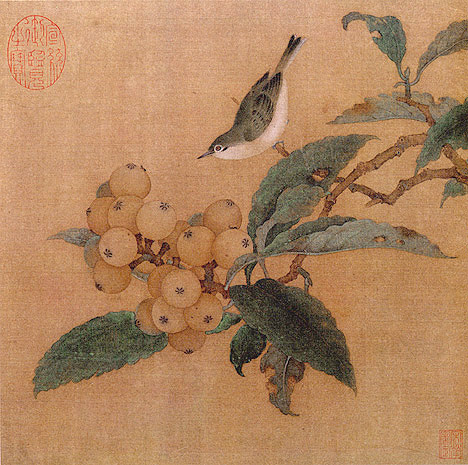
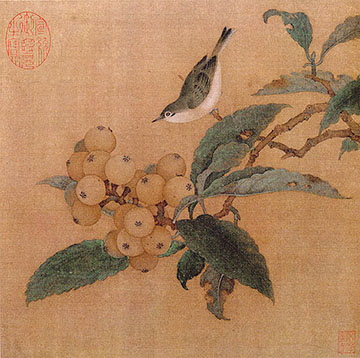
Resized 3 images to use on homepage image slider.
Added images directly in HTML, in image 'model' class as src.

diff --git a/index.html b/index.html
@@ -205,7 +205,7 @@ Avery & Associates Physical Therapy has been open for practice since 1989. We of
 
 
 
-<img class="model" src="images/model1.png" alt="Model 1" />
+<img class="model" src="images/painting1.jpg" alt="Model 1" />
 					</li>
 					<li>
 						<h2 class="title">"Whole Body" Health</h2>
@@ -216,7 +216,7 @@ We believe in the importance of whole body health, using holistic treatments rat
 <section class="button1 buttonslider">
 <a href="about.html">Read more</a>
 </section>
-<img class="model" src="images/model2.png" alt="Model 2" />
+<img class="model" src="images/painting2copy.jpg" alt="Model 2" />
 					</li>
 					<li>
 						<h2 class="title">Services</h2>
@@ -228,7 +228,7 @@ We draw on a diverse array of tools and techniques to help you recover health an
 <a href="services.html">Read more</a>
 </section>
 
-<img class="model" src="images/model3.png" alt="Model 3" />
+<img class="model" src="images/bamboo1medcopy.jpg" alt="Model 3" />
 					</li>
 				</ul>
 
